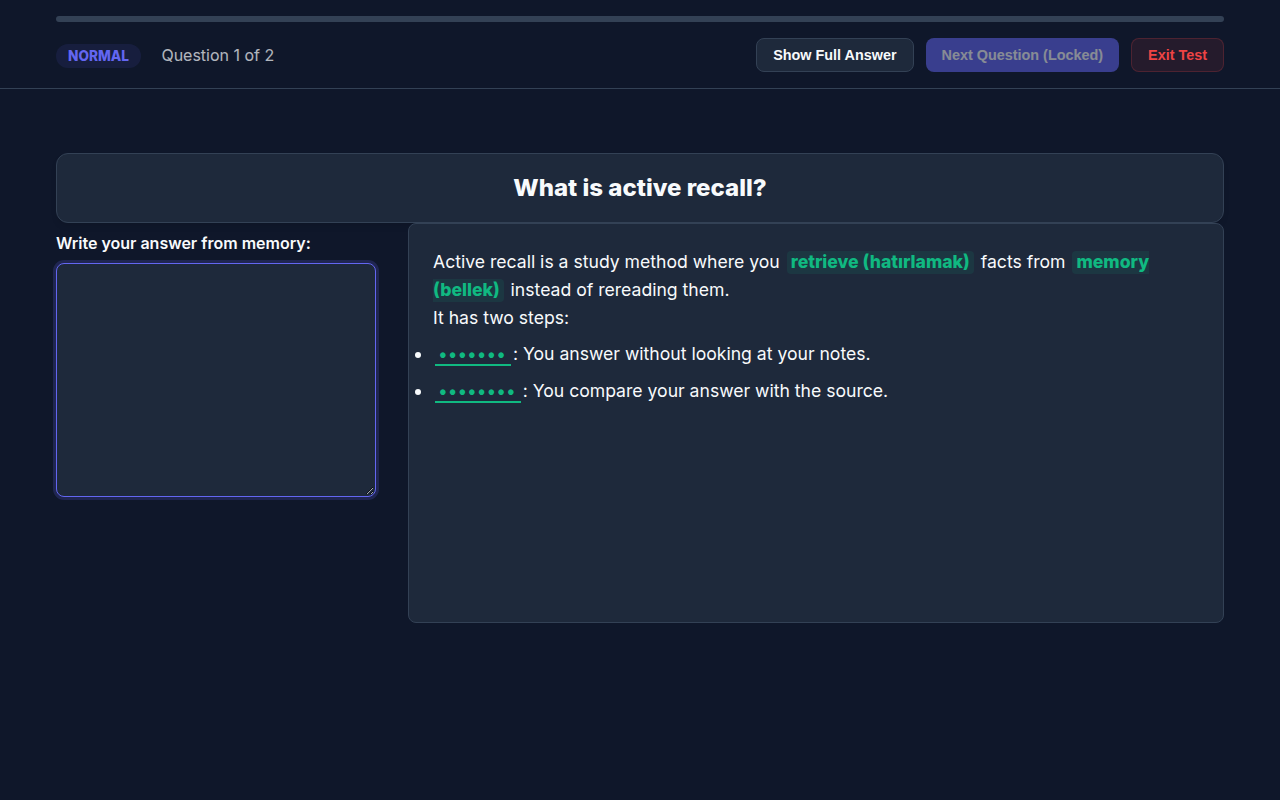
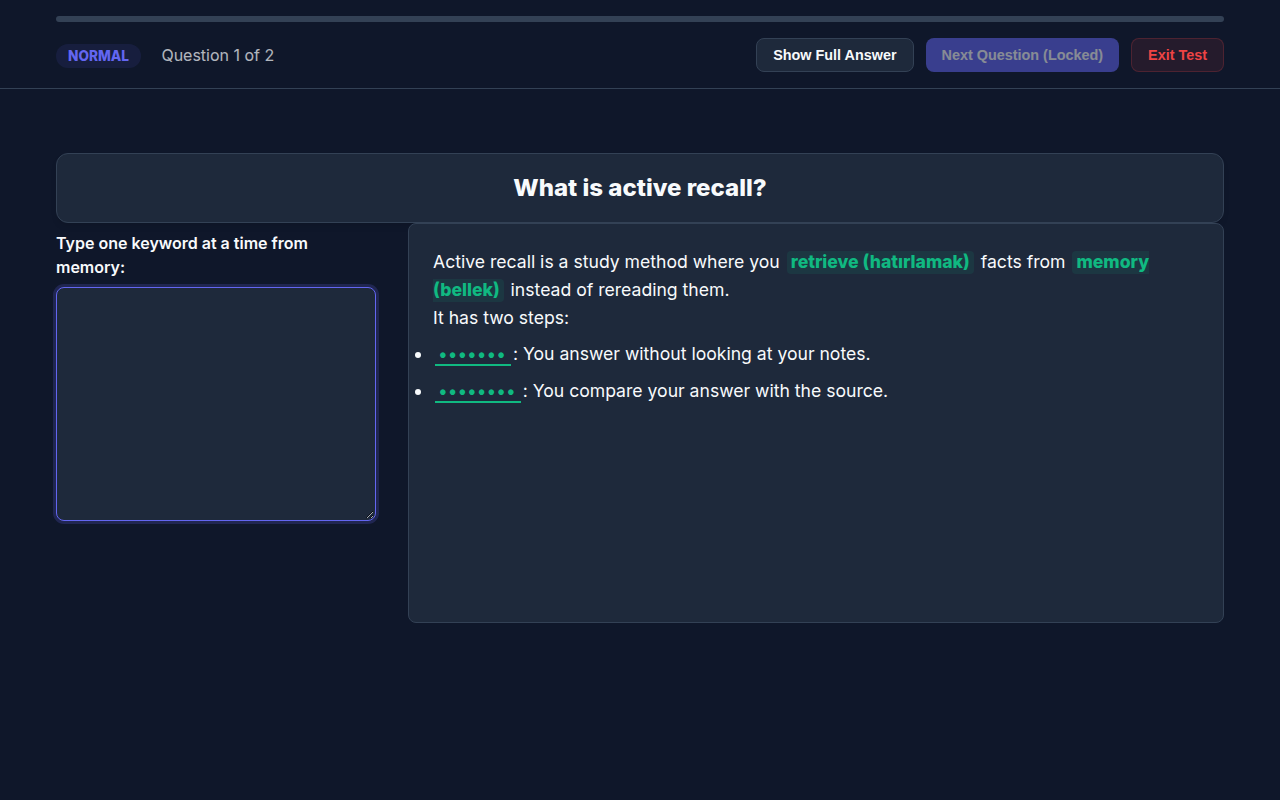
fix(game): blank keywords with edge punctuation and correct the help text

Changed region(s): [[0.0312, 0.2812, 0.3125, 0.3438], [0.0312, 0.625, 0.3125, 0.6562]]

diff --git a/js/translations.js b/js/translations.js
@@ -4,7 +4,7 @@ const translations = {
         tut_p1: "This app helps you memorize your exam answers by forcing you to recall the keywords.",
         tut_modes_title: "Game Modes:",
         tut_mode_norm_title: "Normal:",
-        tut_mode_norm_desc: "Type the full answer. The app will detect keywords as you type. No hints provided.",
+        tut_mode_norm_desc: "Type one keyword at a time. The app detects each keyword as you type it. No hints provided.",
         tut_mode_learn_title: "Learning:",
         tut_mode_learn_desc: "Fill-in-the-blanks mode. It reveals letters automatically every 3 seconds to help you memorize.",
         tut_mode_hard_title: "Fast (Hard):",
@@ -18,7 +18,7 @@ const translations = {
         status_error: "❌ <b>Could not load data.</b><br><br>Make sure `file.csv` exists and has the correct format.",
         diff_label: "Select difficulty:",
         diff_norm_title: "Normal",
-        diff_norm_desc: "Full answer typing. No automated hints.",
+        diff_norm_desc: "Type one keyword at a time. No automated hints.",
         diff_learn_title: "Learning",
         diff_learn_desc: "Fill-in-the-blanks with automated hints over time.",
         diff_hard_title: "Fast (Hard)",
@@ -28,7 +28,7 @@ const translations = {
         history_empty: "No history yet. Complete your first test!",
         history_hits: "Hits",
         keywords_label: "Keywords:",
-        answer_label: "Write your answer from memory:",
+        answer_label: "Type one keyword at a time from memory:",
         answer_placeholder: "Start typing... you must use all keywords to proceed.",
         show_ans_btn: "Show Full Answer",
         next_btn_locked: "Next Question (Locked)",
@@ -51,7 +51,7 @@ const translations = {
         tut_p1: "Bu uygulama, anahtar kelimeleri hatırlamanızı zorlayarak sınav cevaplarınızı ezberlemenize yardımcı olur.",
         tut_modes_title: "Oyun Modları:",
         tut_mode_norm_title: "Normal:",
-        tut_mode_norm_desc: "Tam cevabı yazın. Siz yazarken uygulama anahtar kelimeleri tespit edecektir. İpucu verilmez.",
+        tut_mode_norm_desc: "Anahtar kelimeleri tek tek yazın. Uygulama her kelimeyi siz yazarken tespit eder. İpucu verilmez.",
         tut_mode_learn_title: "Öğrenme:",
         tut_mode_learn_desc: "Boşluk doldurma modu. Ezberlemenize yardımcı olmak için her 3 saniyede bir harf otomatik gösterilir.",
         tut_mode_hard_title: "Hızlı (Zor):",
@@ -65,7 +65,7 @@ const translations = {
         status_error: "❌ <b>Veri yüklenemedi.</b><br><br>`file.csv` dosyasının var olduğundan ve doğru biçime sahip olduğundan emin olun.",
         diff_label: "Zorluk seçin:",
         diff_norm_title: "Normal",
-        diff_norm_desc: "Tam cevap yazma. Otomatik ipucu yok.",
+        diff_norm_desc: "Anahtar kelimeleri tek tek yazın. Otomatik ipucu yok.",
         diff_learn_title: "Öğrenme",
         diff_learn_desc: "Zamanla otomatik ipuçları içeren boşluk doldurma modu.",
         diff_hard_title: "Hızlı (Zor)",
@@ -75,7 +75,7 @@ const translations = {
         history_empty: "Henüz geçmiş yok. İlk testinizi tamamlayın!",
         history_hits: "Doğru",
         keywords_label: "Anahtar Kelimeler:",
-        answer_label: "Cevabınızı hafızadan yazın:",
+        answer_label: "Anahtar kelimeleri hafızadan tek tek yazın:",
         answer_placeholder: "Yazmaya başlayın... ilerlemek için tüm anahtar kelimeleri kullanmalısınız.",
         show_ans_btn: "Tam Cevabı Göster",
         next_btn_locked: "Sonraki Soru (Kilitli)",

diff --git a/index.html b/index.html
@@ -23,7 +23,7 @@
             <p data-i18n="tut_p1" class="mt-2">Practice your exam answers effectively.</p>
             <div class="tut-section mt-4">
                 <ul style="list-style: none; display: flex; flex-direction: column; gap: 0.5rem;">
-                    <li><strong data-i18n="tut_mode_norm_title">Normal:</strong> <span data-i18n="tut_mode_norm_desc">Full typing.</span></li>
+                    <li><strong data-i18n="tut_mode_norm_title">Normal:</strong> <span data-i18n="tut_mode_norm_desc">One keyword at a time.</span></li>
                     <li><strong data-i18n="tut_mode_learn_title">Learning:</strong> <span data-i18n="tut_mode_learn_desc">Hints every 3s.</span></li>
                     <li><strong data-i18n="tut_mode_hard_title">Fast:</strong> <span data-i18n="tut_mode_hard_desc">Exact keywords.</span></li>
                 </ul>
@@ -50,7 +50,7 @@
                         <input type="radio" name="difficulty" value="normal" checked>
                         <div class="diff-card">
                             <h3 data-i18n="diff_norm_title">Normal</h3>
-                            <p data-i18n="diff_norm_desc">Full answer detection.</p>
+                            <p data-i18n="diff_norm_desc">One keyword at a time.</p>
                         </div>
                     </label>
                     <label class="diff-radio">

diff --git a/js/game.js b/js/game.js
@@ -145,9 +145,11 @@ function renderClozeText() {
     let text = q.respuesta;
     
     // 1. Replace keywords with safe placeholders (no '=' to avoid breaking formatMarkdown)
-    currentKeywords.forEach(kw => {
+    // Longest first, so "Corporate" does not split "1. Corporate Level (Company)".
+    [...currentKeywords].sort((a, b) => b.original.length - a.original.length).forEach(kw => {
         const escaped = kw.original.replace(/[.*+?^${}()|[\]\\]/g, '\\$&');
-        const regex = new RegExp(`\\b(${escaped})\\b`, 'gi');
+        // Lookarounds, not \b: \b never matches after punctuation such as "Trade:" followed by a space.
+        const regex = new RegExp(`(?<!\\w)(${escaped})(?!\\w)`, 'gi');
         text = text.replace(regex, `@@KW${kw.id}@@`);
     });
 

diff --git a/game.html b/game.html
@@ -41,7 +41,7 @@
                 </div>
 
                 <div id="normal-answer-section">
-                    <label data-i18n="answer_label" class="mt-2" style="display: block; margin-bottom: 0.5rem; font-weight: 600;">Your Answer:</label>
+                    <label data-i18n="answer_label" class="mt-2" style="display: block; margin-bottom: 0.5rem; font-weight: 600;">One keyword at a time:</label>
                     <textarea id="user-answer" rows="10" class="custom-textarea" data-i18n-placeholder="answer_placeholder"></textarea>
                 </div>
 

diff --git a/README.md b/README.md
@@ -58,12 +58,11 @@ What is active recall? | Active recall is a study method where you retrieve fact
 | `#` | `highlights` | Separates keywords |
 | `@` | `highlights` | Comes before the optional translations, matched to keywords by position |
 
-Each keyword should appear in the answer word for word and start and end with a letter or digit. Otherwise it isn't blanked, but you still have to type it to continue. A row with no keywords is skipped.
+Each keyword should appear in the answer word for word. Otherwise it isn't blanked, but you still have to type it to continue. A row with no keywords is skipped.
 
 ## Status and limits
 
 This is a small personal study tool with no automated tests. I checked the steps above in Chromium.
 
 - The shipped `file.csv` holds 19 international economics exam questions. To use the game for another subject, replace it.
-- In 7 of those 19 questions, some keywords end in punctuation (such as `Terms of Trade:`), so they stay visible in the answer instead of being blanked.
-- The in-app help says to type the full answer in Normal mode, but only one keyword at a time is detected.
+- In one of those questions, the keyword `Voluntary Export Restraint:` doesn't match the answer's wording, so it has no blank but must still be typed. Use **Show Full Answer** if you get stuck there.
